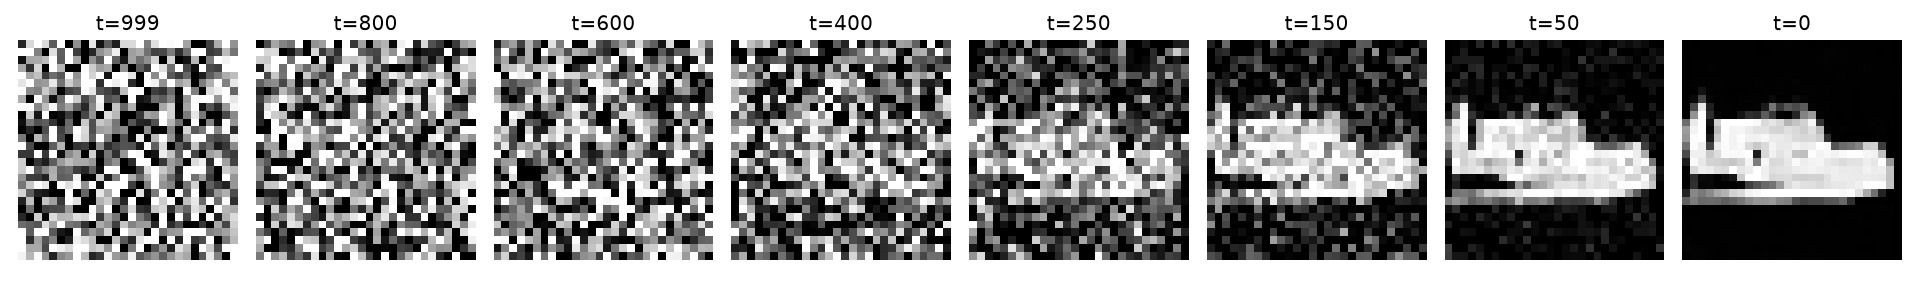
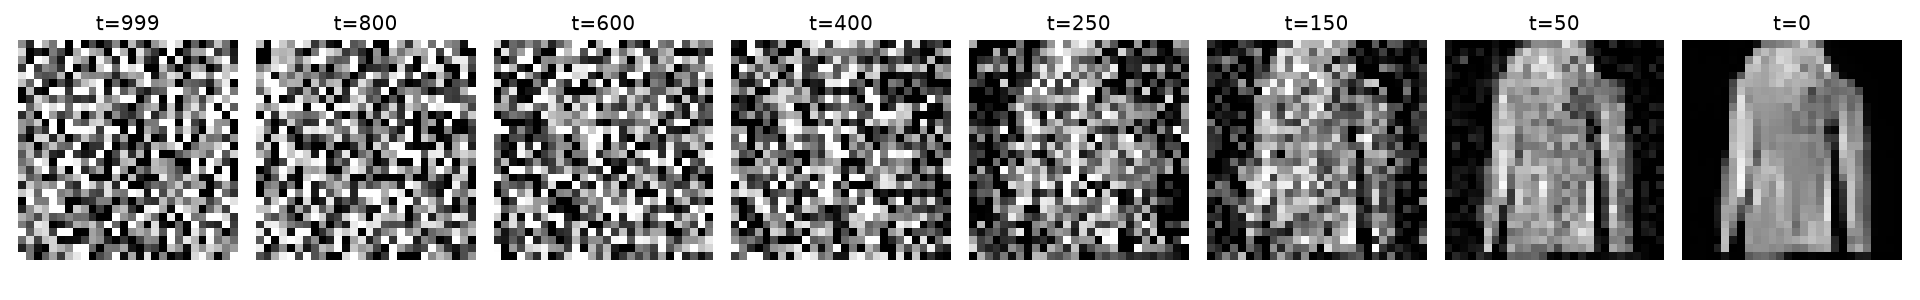
fix: add training enhancements

diff --git a/train.py b/train.py
@@ -4,15 +4,18 @@ from torch.optim import Adam
 from data import CHANNELS, dataloader
 from diffusion import TIMESTEPS, p_losses
 from model import Unet
+from torch.optim.lr_scheduler import CosineAnnealingLR
 
 device = "cuda" if torch.cuda.is_available() else "cpu"
-EPOCHS = 5
+EPOCHS = 15
 LEARNING_RATE = 1e-3
 
 model = Unet(dim=64, dim_mults=(1, 2, 4), channels=CHANNELS).to(device)
 optimizer = Adam(model.parameters(), lr=LEARNING_RATE) # better than SGD
+scheduler = CosineAnnealingLR(optimizer, T_max=EPOCHS)
 
 for epoch in range(EPOCHS):
+    running = 0.0
     for step, (images, _) in enumerate(dataloader):
         optimizer.zero_grad()
 
@@ -25,8 +28,10 @@ for epoch in range(EPOCHS):
         loss.backward()
         optimizer.step()
 
+        running += loss.item()
         if step % 100 == 0:
             print(f"epoch {epoch}  step {step:>4}  loss {loss.item():.4f}")
-
+        scheduler.step()
+    print(f"epoch {epoch} done  mean loss {running / len(dataloader):.4f}, saved model.pt")
     torch.save(model.state_dict(), "model.pt")
     print(f"epoch {epoch} done, saved model.pt")
